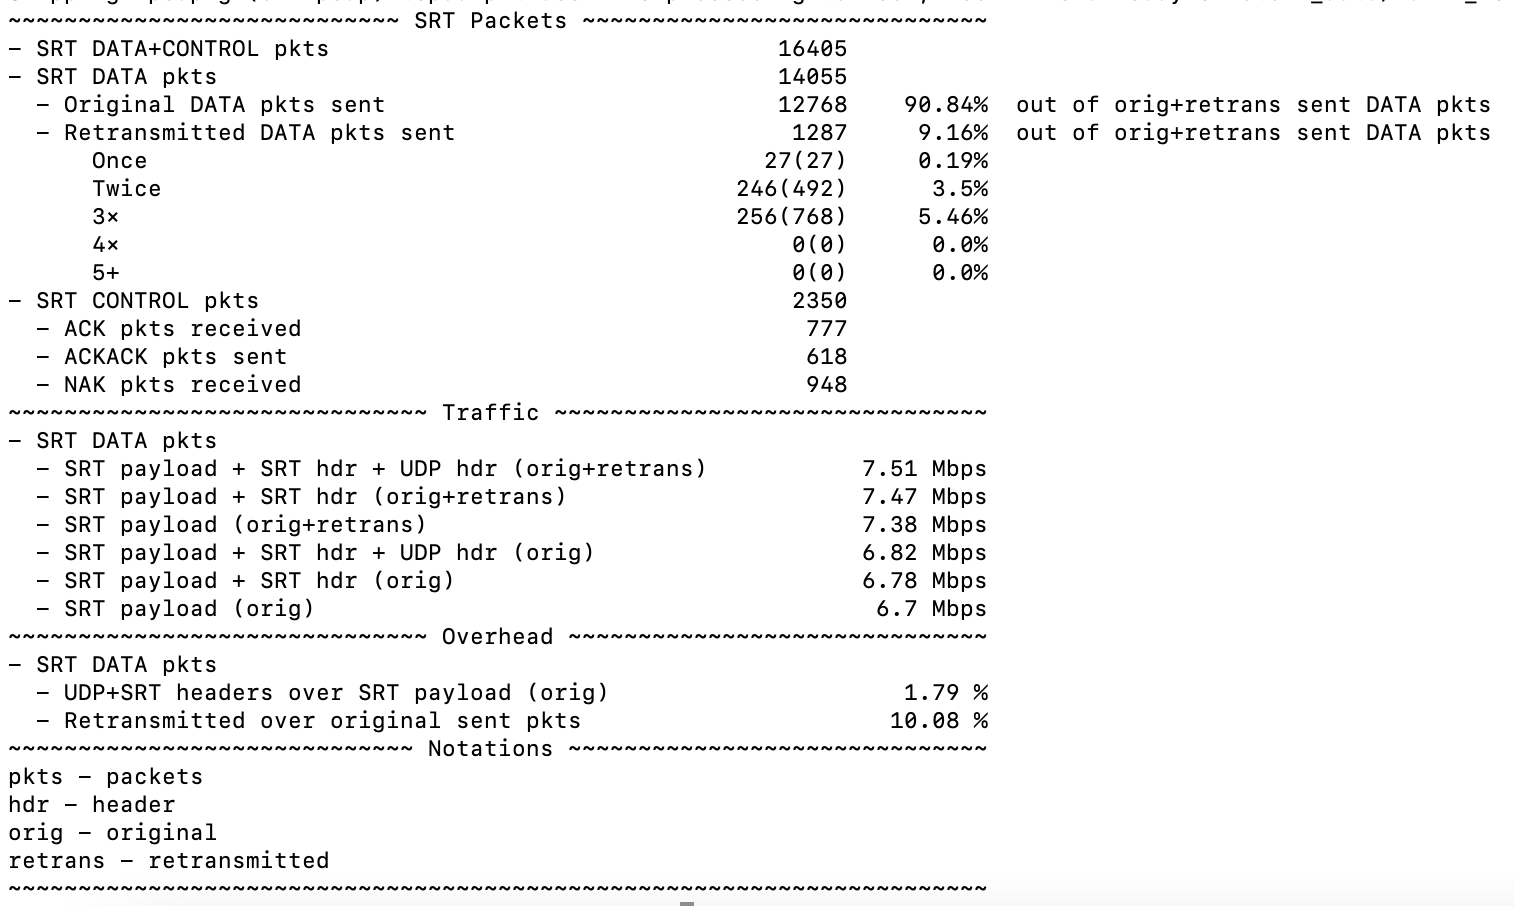
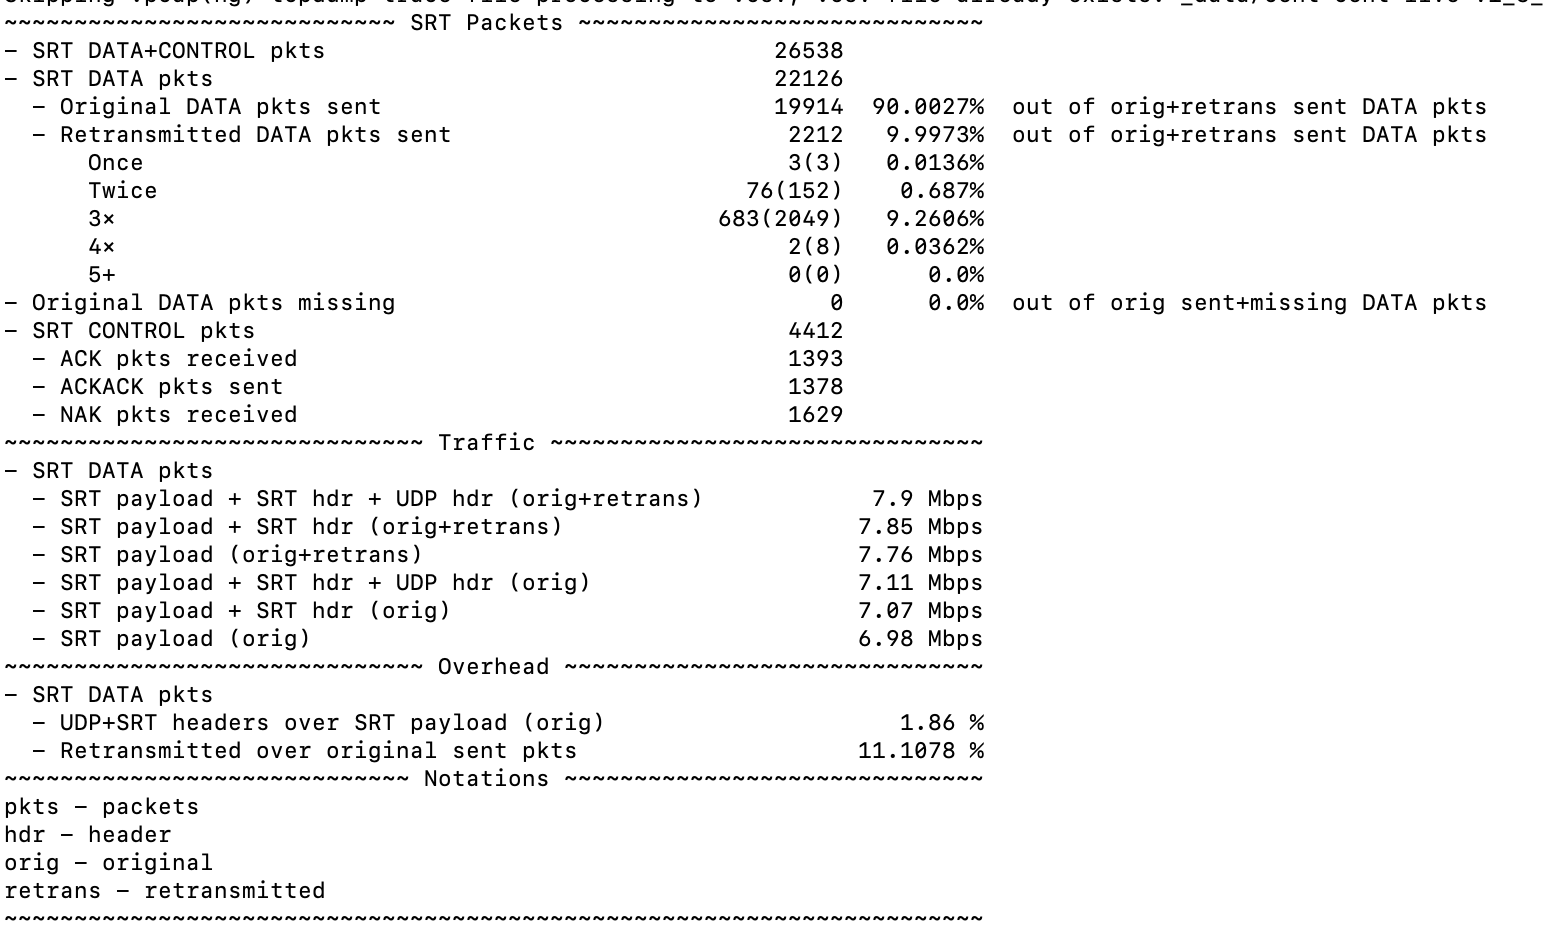
Added original DATA packets missing at the sender side

Changed region(s): [[0.0, 0.0, 0.9934, 1.0]]

diff --git a/scripts/get_traffic_stats.py b/scripts/get_traffic_stats.py
@@ -148,6 +148,15 @@ class TrafficStats:
 		cnt = self.count_packets()
 		rexmits_cnt = self.count_retransmissions()
 
+		# Calculate the number of missing in the dump original data packets
+		# that were either dropped by the SRT sender, or UDP socket.
+		# Reordered packets are not taken into account, so if a packet is reordered and
+		# comes later, it will not be included into statistic.
+		seqnos_org = self.data_pkts_org['srt.seqno'].astype('int32')
+		# Removing duplicates in sent original packets.
+		seqnos_org = seqnos_org.drop_duplicates()
+		data_pkts_org_missing_cnt = int((seqnos_org.diff().dropna() - 1).sum())
+
 		print(" SRT Packets ".center(70, "~"))
 
 		print(f"- SRT DATA+CONTROL pkts  {cnt['pkts']:>35}")
@@ -170,6 +179,12 @@ class TrafficStats:
 		print(f"      3×     {to_str(rexmits_cnt['x3'], rexmits_cnt['x3_total']):>47} {to_percent(rexmits_cnt['x3_total'], cnt['data_pkts']):>8}%")
 		print(f"      4×     {to_str(rexmits_cnt['x4'], rexmits_cnt['x4_total']):>47} {to_percent(rexmits_cnt['x4_total'], cnt['data_pkts']):>8}%")
 		print(f"      5+     {to_str(rexmits_cnt['x5_more'], rexmits_cnt['x5_more_total']):>47} {to_percent(rexmits_cnt['x5_more_total'], cnt['data_pkts']):>8}%")
+
+		print(
+			f"- Original DATA pkts missing       {data_pkts_org_missing_cnt:>25}"
+			f" {to_percent(data_pkts_org_missing_cnt, (cnt['data_pkts_org']+data_pkts_org_missing_cnt)):>8}%"
+			"  out of orig sent+missing DATA pkts"
+		)
 
 		print(f"- SRT CONTROL pkts     {cnt['ctrl_pkts']:>37}")
 		print(f"  - ACK pkts received  {cnt['ctrl_pkts_ack']:>37}")
@@ -205,7 +220,7 @@ class TrafficStats:
 		# Removing duplicates in received original packets.
 		seqnos_org = seqnos_org.drop_duplicates()
 		data_pkts_org_lost_cnt = int((seqnos_org.diff().dropna() - 1).sum())
-
+		
 		# The number of packets considered unrecovered at the receiver.
 		# It means neither original, nor re-transmitted packet with
 		# a particular sequence number has reached the destination.
